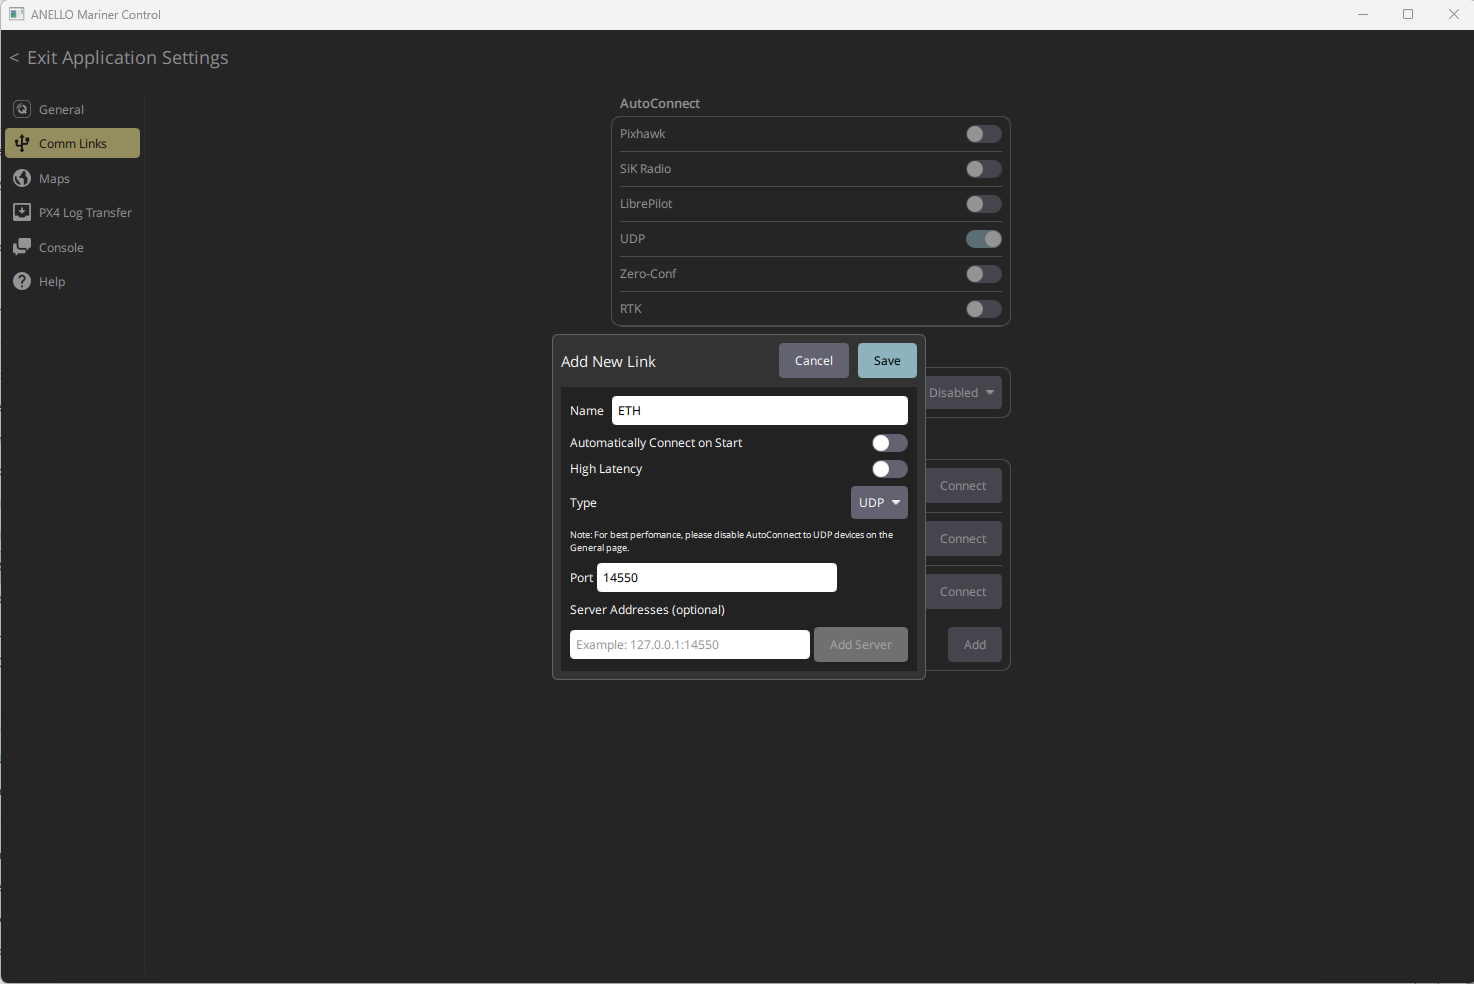
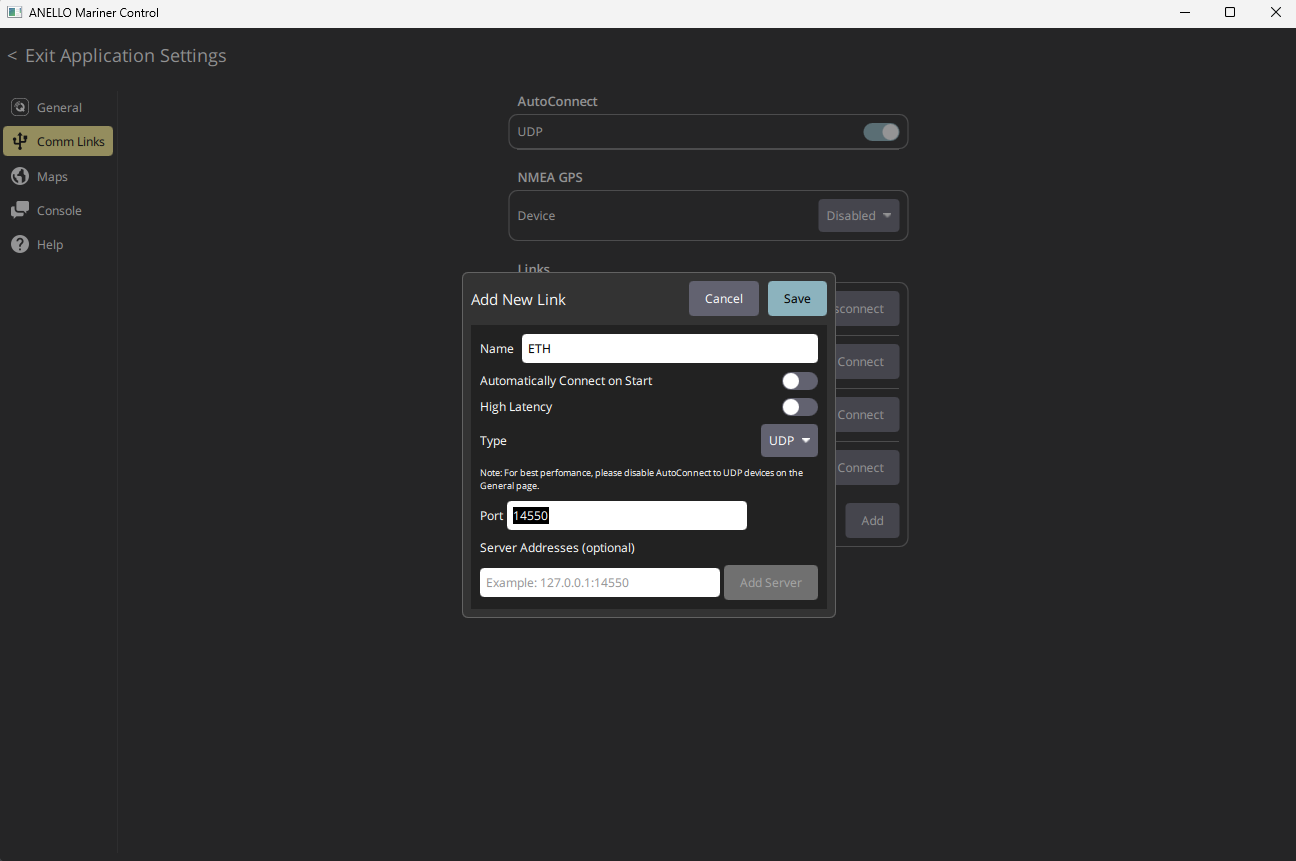
updated AMC link and appropriate screenshots

Changed region(s): [[0.3704, 0.0906, 0.7099, 0.7247], [0.0, 0.9965, 1.0, 1.0], [0.0, 0.0, 0.1852, 0.302]]

diff --git a/docs/getting_started_maritimeins.rst b/docs/getting_started_maritimeins.rst
@@ -35,7 +35,7 @@ The kit includes the following hardware:
 
 Connect with the ANELLO Maritime Control software (AMarinerControl):
 
-1. Install ANELLO's `AMarinerControl <https://github.com/Anello-Photonics/amarinercontrol/releases/download/v1.1.1/AMarinerControl-Setup.exe>`_ on your Windows computer. For macOS and Linux support contact support@anellophotonics.com.
+1. Install ANELLO's `AMarinerControl <https://github.com/Anello-Photonics/amarinercontrol/releases/download/v1.2.1/AMarinerControl-Setup.exe>`_ on your Windows computer. For macOS and Linux support contact support@anellophotonics.com.
 
 
 2. Set the Ethernet IP address of the host computer to **192.168.0.2** and subnet mask to **255.255.255.0**.
